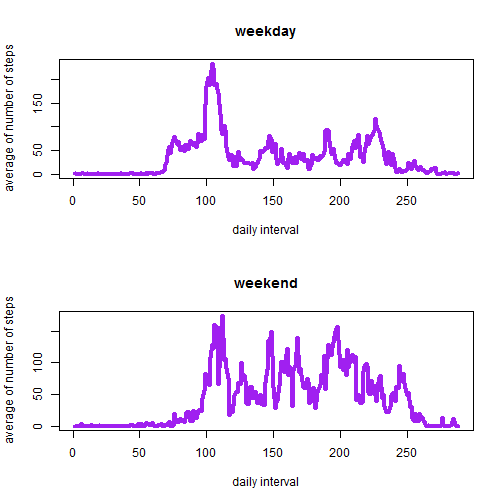
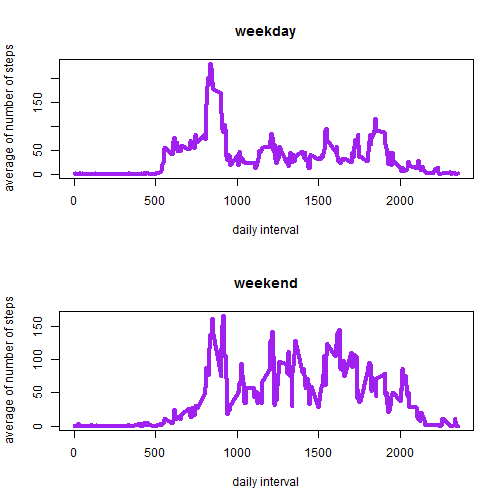
update2

diff --git a/PA1_template.html b/PA1_template.html
@@ -3,7 +3,7 @@
 <head>
 <meta http-equiv="Content-Type" content="text/html; charset=utf-8"/>
 
-<title></title>
+<title>Loading and preprocessing the data</title>
 
 <script type="text/javascript">
 window.onload = function() {
@@ -201,34 +201,22 @@ hr {
 </head>
 
 <body>
-<p>setwd(&ldquo;D:/1. Cursos/Data Science/Modulo 5. Reproducible Research/Week2/Project 1&rdquo;)
-library(lubridate)</p>
+<p>##Libraries and initial directory</p>
 
-<p>#General options</p>
+<p>library(lubridate)</p>
+
+<p>##General options</p>
 
 <pre><code class="r">opts_chunk$set(echo=TRUE)
 </code></pre>
 
-<ol>
-<li>Loading and preprocessing the data</li>
-</ol>
+<h2>Loading and preprocessing the data</h2>
 
 <pre><code class="r">data&lt;-read.csv(&quot;activity.csv&quot;)
+data$date&lt;-as.Date(data$date)
 </code></pre>
 
-<pre><code>## Warning in file(file, &quot;rt&quot;): no fue posible abrir el archivo
-## &#39;activity.csv&#39;: No such file or directory
-</code></pre>
-
-<pre><code>## Error in file(file, &quot;rt&quot;): no se puede abrir la conexión
-</code></pre>
-
-<pre><code class="r">data$date&lt;-as.Date(data$date)
-</code></pre>
-
-<ol>
-<li>What is mean total number of steps taken per day?</li>
-</ol>
+<h2>What is mean total number of steps taken per day?</h2>
 
 <pre><code class="r">sum_steps_d&lt;-sapply(split(data,as.factor(data$date)),function(x) sum(x$steps,na.rm=T))
 hist(sum_steps_d,
@@ -261,19 +249,17 @@ cat(&quot;mean of the total number of steps taken per day:\n&quot;);mean_steps
 <pre><code>## [1] 10395
 </code></pre>
 
-<ol>
-<li>What is the average daily activity pattern?</li>
-</ol>
+<h2>What is the average daily activity pattern?</h2>
 
 <pre><code class="r">ave_steps_i&lt;-sapply(split(data,as.factor(data$interval)),function(x) mean(x$steps,na.rm=T))
-plot(ave_steps_i,type=&quot;l&quot;,
+plot(x=names(ave_steps_i),y=ave_steps_i,type=&quot;l&quot;,
     xlab=&quot;daily interval&quot;,
     ylab=&quot;average of number of steps&quot;,
     col=&quot;purple&quot;,
     lwd=8)
 </code></pre>
 
[2 lines of base64/hex data omitted]
 
 <pre><code class="r">max_i&lt;-ave_steps_i[ave_steps_i==max(ave_steps_i)]
 cat(&quot;5 min interval with the maximum number of steps is:\n&quot;);names(max_i)
@@ -294,9 +280,7 @@ cat(&quot;5 min interval with the maximum number of steps is:\n&quot;);names(max
 <pre><code>## 835
 </code></pre>
 
-<ol>
-<li>Imputing missing values</li>
-</ol>
+<h2>Imputing missing values</h2>
 
 <pre><code class="r">cat(&quot;The number of NAs on each variable is the following\n&quot;);apply(data,2,function(x) sum(is.na(x)))
 </code></pre>
@@ -304,8 +288,8 @@ cat(&quot;5 min interval with the maximum number of steps is:\n&quot;);names(max
 <pre><code>## The number of NAs on each variable is the following
 </code></pre>
 
-<pre><code>##    steps     date interval day_type 
-##     2304        0        0        0
+<pre><code>##    steps     date interval 
+##     2304        0        0
 </code></pre>
 
 <pre><code class="r">#NA imputation
@@ -316,20 +300,18 @@ cat(&quot;NA imputation\n&quot;)
 </code></pre>
 
 <pre><code class="r">ave_steps_i&lt;-sapply(split(data,as.factor(data$interval)),function(x) mean(x$steps,na.rm=T))
-data[is.na(data$steps),]$steps&lt;-ave_steps_i[data[is.na(data$steps),]$interval]
-</code></pre>
-
-<pre><code>## Error in `$&lt;-.data.frame`(`*tmp*`, &quot;steps&quot;, value = structure(c(0.0754716981132075, : replacement has 2296 rows, data has 2304
-</code></pre>
-
-<pre><code class="r">cat(&quot;The number of NAs on each variable is now\n&quot;);apply(data,2,function(x) sum(is.na(x)))
+ave_steps_i&lt;-data.frame(interval=as.integer(names(ave_steps_i)),num_steps=ave_steps_i)
+data&lt;-merge(data,ave_steps_i,by=&quot;interval&quot;)
+data[is.na(data$steps),]$steps&lt;-data[is.na(data$steps),]$num_steps
+data$num_steps&lt;-NULL
+cat(&quot;The number of NAs on each variable is now\n&quot;);apply(data,2,function(x) sum(is.na(x)))
 </code></pre>
 
 <pre><code>## The number of NAs on each variable is now
 </code></pre>
 
-<pre><code>##    steps     date interval day_type 
-##     2304        0        0        0
+<pre><code>## interval    steps     date 
+##        0        0        0
 </code></pre>
 
 <pre><code class="r">#Recalculation of point 1 without NAs
@@ -348,7 +330,7 @@ hist(sum_steps_d,
     col=&quot;blue&quot;)
 </code></pre>
 
[2 lines of base64/hex data omitted]
 
 <pre><code class="r">mean_steps&lt;-mean(sum_steps_d)
 median_steps&lt;-median(sum_steps_d)
@@ -358,7 +340,7 @@ cat(&quot;mean of the total number of steps taken per day:\n&quot;);mean_steps
 <pre><code>## mean of the total number of steps taken per day:
 </code></pre>
 
-<pre><code>## [1] 9354.23
+<pre><code>## [1] 10766.19
 </code></pre>
 
 <pre><code class="r">cat(&quot;median of the total number of steps taken per day:\n&quot;);median_steps
@@ -367,15 +349,13 @@ cat(&quot;mean of the total number of steps taken per day:\n&quot;);mean_steps
 <pre><code>## median of the total number of steps taken per day:
 </code></pre>
 
-<pre><code>## [1] 10395
+<pre><code>## [1] 10766.19
 </code></pre>
 
-<p>##New values differs from the calculated on point 2.
-##Number of steps per days is greater than in point 2</p>
+<p>#New values differs from the calculated on point 2.
+#Number of steps per days is greater than in point 2</p>
 
-<ol>
-<li>Are there differences in activity patterns between weekdays and weekends?</li>
-</ol>
+<h2>Are there differences in activity patterns between weekdays and weekends?</h2>
 
 <pre><code class="r">#Creation of a variable differentiation weekday and weekday
 
@@ -383,41 +363,28 @@ data$day_type&lt;-&quot;weekday&quot;
 data$day_type[weekdays(data$date)%in%weekdays(as.Date(c(&quot;2012-12-02&quot;,&quot;2012-12-01&quot;)))]&lt;-&quot;weekend&quot;
 
 #Average number of steps per interval depending on weekday/weekend
-ave_steps_i_wd&lt;-sapply(split(data[data$day_type==&quot;weekday&quot;,],as.factor(data$interval)),function(x) mean(x$steps,na.rm=T))
-</code></pre>
-
-<pre><code>## Warning in split.default(x = seq_len(nrow(x)), f = f, drop = drop, ...):
-## largo de datos no es múltiplo de la variable de separación
-</code></pre>
-
-<pre><code class="r">ave_steps_i_we&lt;-sapply(split(data[data$day_type==&quot;weekend&quot;,],as.factor(data$interval)),function(x) mean(x$steps,na.rm=T))
-</code></pre>
-
-<pre><code>## Warning in split.default(x = seq_len(nrow(x)), f = f, drop = drop, ...):
-## largo de datos no es múltiplo de la variable de separación
-</code></pre>
-
-<pre><code class="r">ave_steps_i_dt&lt;-data.frame(ave_wd=ave_steps_i_wd,ave_we=ave_steps_i_we)
+data_wd&lt;-subset(data,day_type==&quot;weekday&quot;);data_wd$interval&lt;-as.factor(data_wd$interval)
+data_we&lt;-subset(data,day_type==&quot;weekend&quot;);data_we$interval&lt;-as.factor(data_we$interval)
+ave_steps_i_wd&lt;-sapply(split(data_wd,data_wd$interval),function(x) mean(x$steps))
+ave_steps_i_we&lt;-sapply(split(data_we,data_we$interval),function(x) mean(x$steps))
 
 #plot
 par(mfrow=c(2,1))
-with(ave_steps_i_dt,{
-plot(ave_steps_i_dt$ave_wd,type=&quot;l&quot;,
+plot(x=names(ave_steps_i_wd),y=ave_steps_i_wd,type=&quot;l&quot;,
     xlab=&quot;daily interval&quot;,
     ylab=&quot;average of number of steps&quot;,
     col=&quot;purple&quot;,
     main=&quot;weekday&quot;,
     lwd=4)
-plot(ave_steps_i_dt$ave_we,type=&quot;l&quot;,
+plot(x=names(ave_steps_i_we),y=ave_steps_i_we,type=&quot;l&quot;,
     xlab=&quot;daily interval&quot;,
     ylab=&quot;average of number of steps&quot;,
     col=&quot;purple&quot;,
     main=&quot;weekend&quot;,
     lwd=4)
-})
 </code></pre>
 
[2 lines of base64/hex data omitted]
 
 </body>
 
